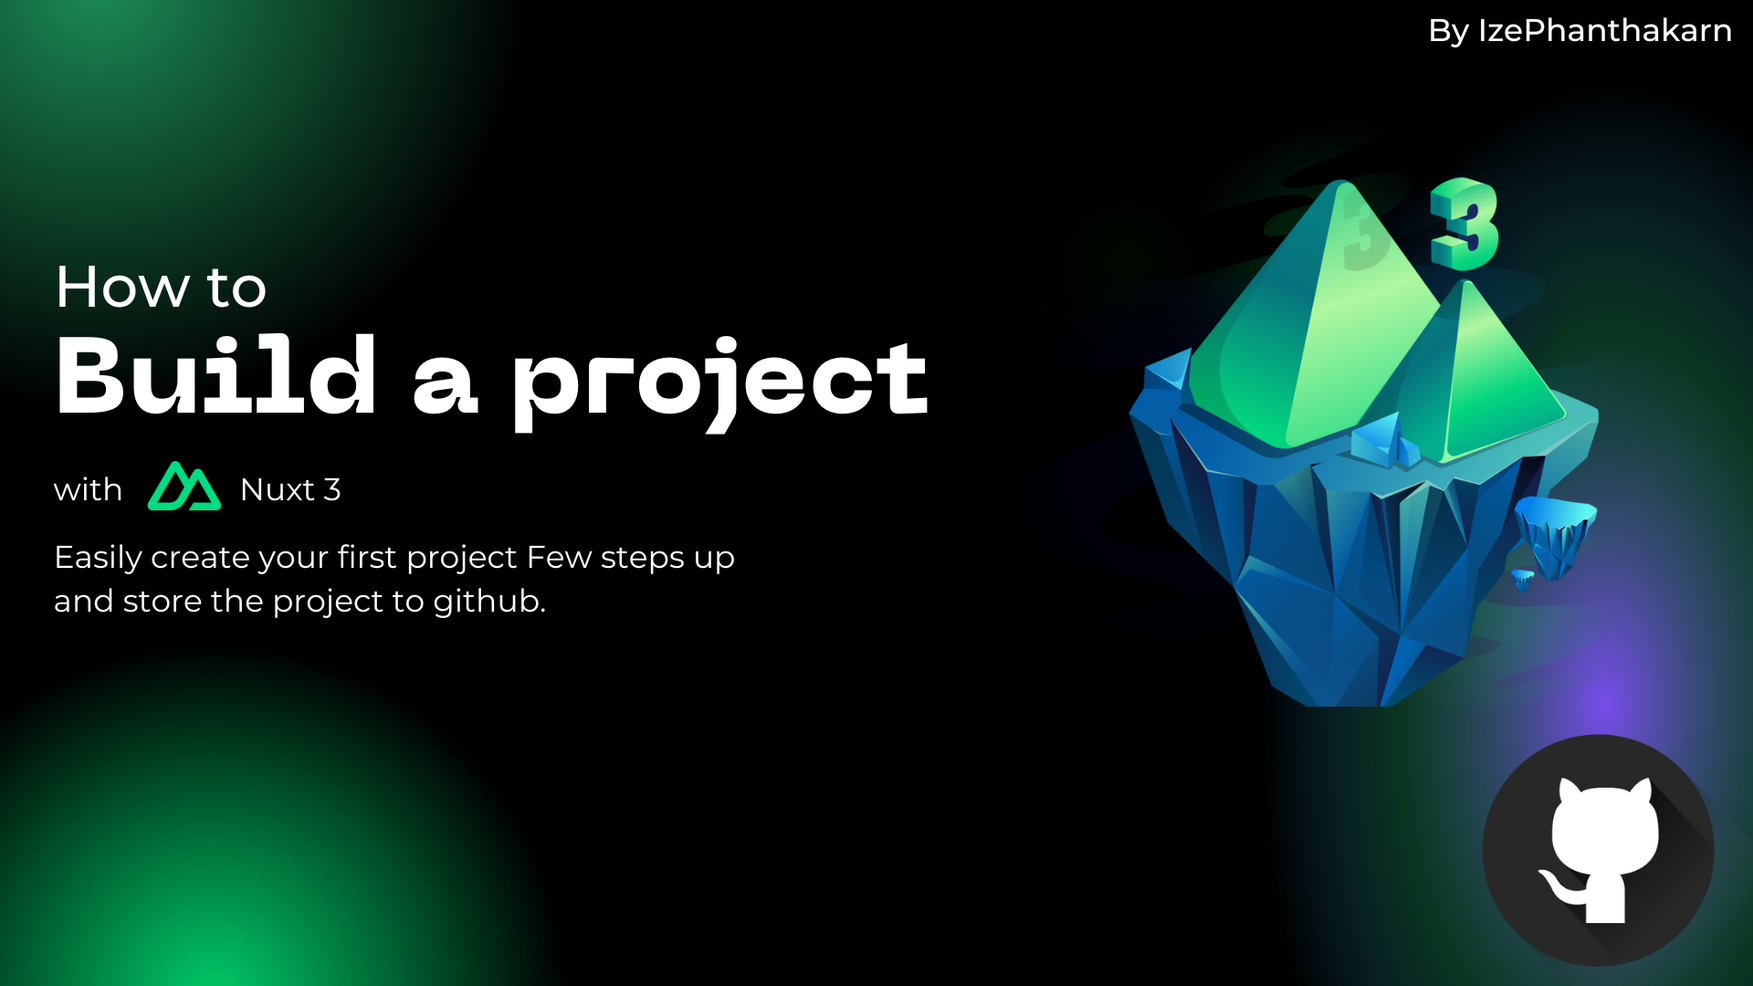
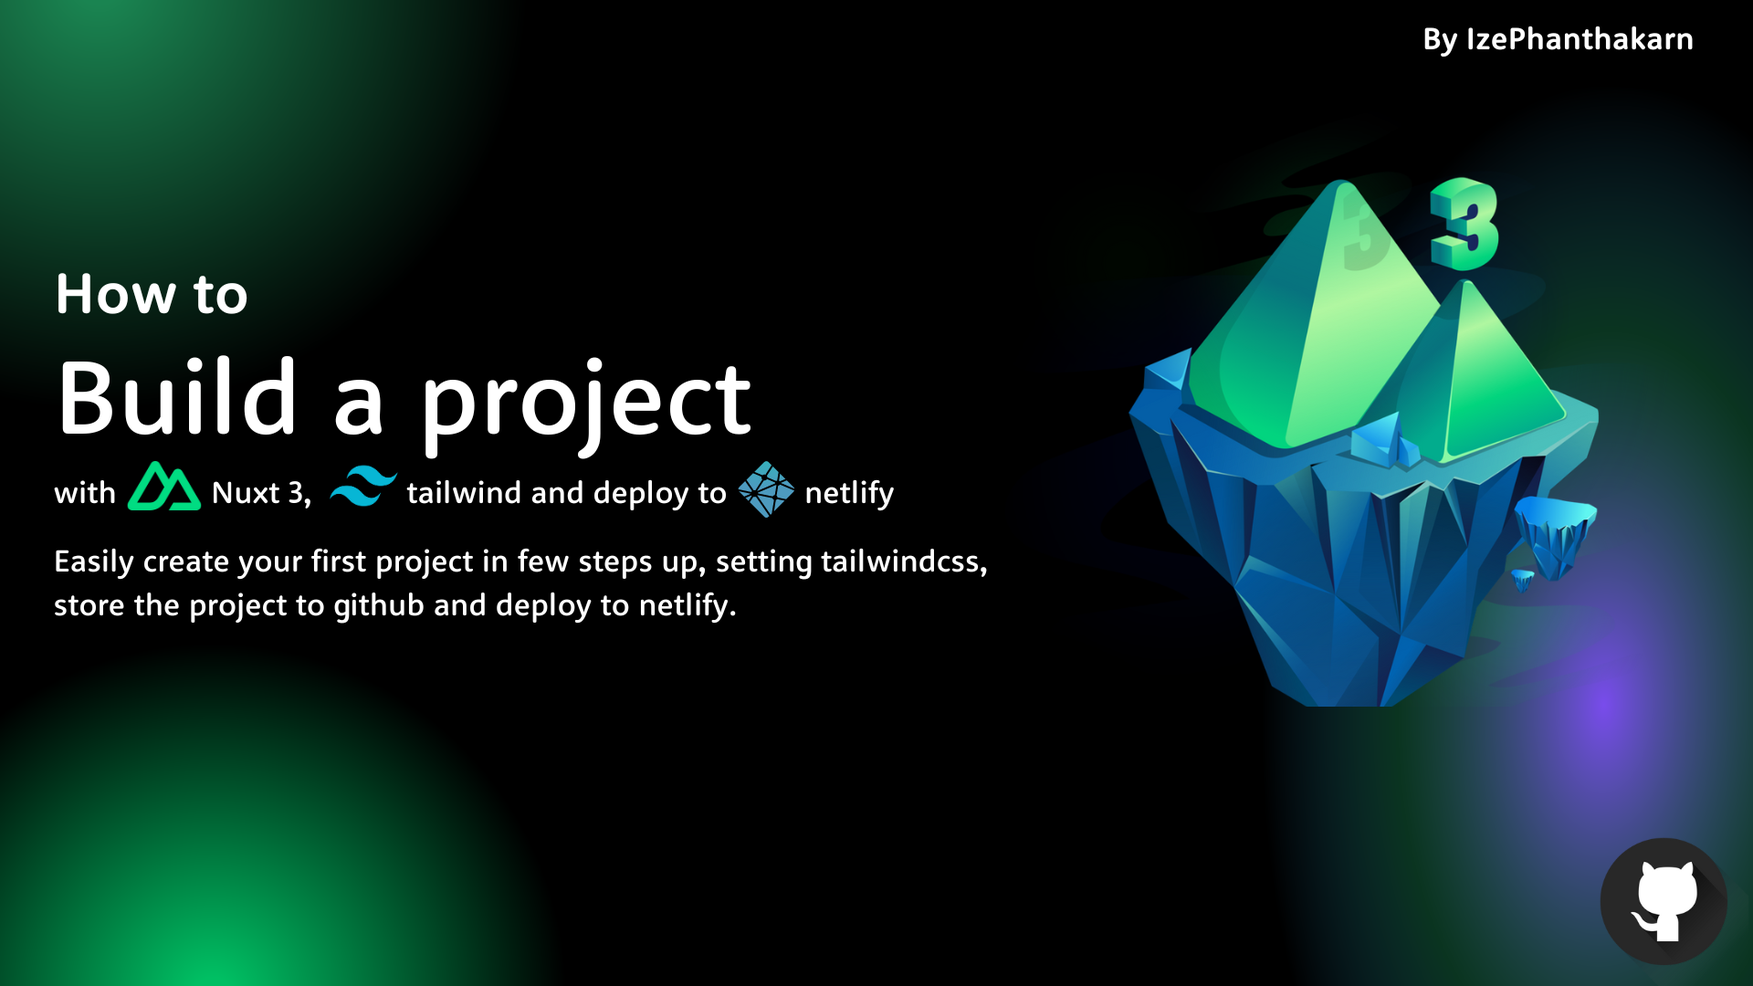
💄 Complete blogs page and first blog

diff --git a/pages/blogs/how-to-build-nuxt3-project.vue b/pages/blogs/how-to-build-nuxt3-project.vue
@@ -1,0 +1,110 @@
+<script setup lang="ts">
+const blog = {
+    title: "How to build Nuxt 3 project",
+    author: "Phanthakarn Khumphai",
+    img: "https://firebasestorage.googleapis.com/v0/b/nuxt3-portfolio-a111c.appspot.com/o/Banner-blogs.png?alt=media&token=d5ba768c-72a3-4943-bcc2-3c92d56cd391",
+    tags: [
+        { icon: "logos:nuxt-icon", name: "Nuxt.js", link: "https://nuxtjs.org/" },
+        { icon: "logos:tailwindcss-icon", name: "TailwindCSS", link: "https://tailwindcss.com/" },
+        { icon: "line-md:github-loop", name: "Github", link: "https://github.com/" },
+        { icon: "vscode-icons:file-type-netlify", name: "Netlify", link: "https://www.netlify.com/" },
+    ],
+    description: "This article will focus on explaining how to build a project with Nuxt 3 from scratch, using the CSS framework tailwindcss to make development easier. We will also cover how to store the project on Github and deploy it on Netlify.",
+    detail: "Lorem ipsum dolor sit amet consectetur, adipisicing elit. Saepe soluta ad est ea, asperiores suscipit veniam odit. Tenetur corporis, voluptatem nihil at eaque corrupti officiis unde aut, ducimus, velit dolorem.",
+    lastUpdate: "April 7, 2023",
+    link: "/blogs/how-to-build-nuxt3-project",
+    slug: "how-to-build-nuxt3-project"
+}
+
+function copyText(text: string) {
+    navigator.clipboard.writeText(text);
+}
+</script>
+
+<template>
+    <div class="container text-white mx-auto pt-28 px-5 pb-10">
+        <div class="flex flex-col lg:grid w-full lg:w-3/4 mx-auto lg:grid-cols-2 lg:gap-8">
+
+            <img data-aos="fade-right" :src=blog.img class="w-full mx-auto rounded-2xl mb-4 lg:mb-0" alt="">
+            <div data-aos="fade-left" class="mb-4 lg:mb-0">
+                <h1 class="text-2xl sm:text-3xl font-semibold">{{ blog.title }}</h1>
+                <div class="flex mb-1 items-center space-x-1">
+                    <h2 class="">{{ blog.lastUpdate }} by</h2>
+                    <NuxtLink to="/about" class="text-primary hover:cursor-pointer hover:underline underline-offset-2">{{
+                        blog.author }}</NuxtLink>
+            </div>
+            <div v-for="(tag, index) in blog.tags" :key="index" class="inline-block m-0.5">
+                <BaseTag class="inline-block" portfolio :icon=tag.icon :link="tag.link">{{ tag.name }}</BaseTag>
+            </div>
+            <hr class="my-4">
+            <div>{{ blog.description }}</div>
+        </div>
+    
+        <div class="col-span-2">
+            <div class=" mx-auto">
+                <p data-aos="fade-up">
+                Nuxt is a framework built on top of Vue.js for developing web applications that support Server Side
+                Rendering
+                (SSR) and Progressive Web Application (PWA) capabilities. It is suitable for web applications that require
+                SEO, such as blogs and e-commerce stores. Choosing Nuxt can also reduce development time due to the
+                structure and formats provided by the Nuxt framework, such as automatic file-based routing, automatic
+                importing of files and modules (Nuxt Auto Import), and the ability to design and create APIs within the
+                framework. This makes it easier and more efficient for developers to work.
+                </p>
+                <br><br>
+                <h1 data-aos="fade-right" class="text-xl lg:text-2xl font-medium">🎉 To begin, use the command to create a project via the command prompt.</h1>
+                <pre data-aos="fade-left" class="bg-color-base2 rounded-2xl pl-4 pr-2 py-2 mt-2 mb-4 overflow-auto flex items-center justify-between select-text"><code>npx nuxi init &lt;project-name></code><Icon @click="copyText('npx nuxi init <project-name>')" class="text-gray-300 duration-200 cursor-pointer rounded-lg py-1 hover:bg-color-base active:scale-95" name="uil:copy" size="34"/></pre>
+                <p data-aos="fade-right">Nuxt project is created with v3 template. Next steps: go to path of project and install dependencies:</p>
+                <pre data-aos="fade-left" class="bg-color-base2 rounded-2xl pl-4 pr-2 py-2 mt-2 mb-4 overflow-auto flex items-start justify-between select-text"><div class="flex flex-col"><code>cd &lt;project-name></code><code>npm install</code></div><Icon @click="copyText('cd <project-name> && npm install')" class="text-gray-300 duration-200 cursor-pointer rounded-lg py-1 hover:bg-color-base active:scale-95" name="uil:copy" size="34"/></pre>
+                <p data-aos="fade-right">Finally, use this command to run the project. And open your browser at <NuxtLink to="http://localhost:3000/" target="_blank" class="text-primary hover:underline underline-offset-2">localhost:3000</NuxtLink>:</p> 
+                <pre data-aos="fade-left" class="bg-color-base2 rounded-2xl pl-4 pr-2 py-2 mt-2 mb-4 overflow-auto flex items-center justify-between select-text"><code>npm run dev</code><Icon @click="copyText('npm run dev')" class="text-gray-300 duration-200 cursor-pointer rounded-lg py-1 hover:bg-color-base active:scale-95" name="uil:copy" size="34"/></pre>
+                <p data-aos="fade-right">You will see</p>
+                <img data-aos="fade-left" class="w-full sm:w-3/4 mx-auto my-4 rounded-lg sm:rounded-xl" src="https://firebasestorage.googleapis.com/v0/b/nuxt3-portfolio-a111c.appspot.com/o/welcom-to-nuxt.png?alt=media&token=924edd5a-5623-4c9f-b505-2ffbcccc52f8" alt="">
+                <p data-aos="fade-right">change file app.vue to:</p>
+                <pre data-aos="fade-left" class="bg-color-base2 rounded-2xl pl-4 pr-2 py-2 mt-2 mb-4 overflow-auto flex items-start justify-between select-text"><div class="flex flex-col"><code>&lt;template> <br> &nbsp;&lt;NuxtLayout> <br>&nbsp;&nbsp;&nbsp;&nbsp;&lt;NuxtPage /> <br>&nbsp;&nbsp;&lt;/NuxtLayout> <br>&lt;/template></code></div><Icon @click="copyText('<template>\n <NuxtLayout>\n      <NuxtPage />\n</NuxtLayout>\n</template>')" class="text-gray-300 duration-200 cursor-pointer rounded-lg py-1 hover:bg-color-base active:scale-95" name="uil:copy" size="34"/></pre>
+                <p data-aos="fade-right">Create file <span class="text-primary">pages/index.vue</span> and add this code:</p>
+                <pre data-aos="fade-left" class="bg-color-base2 rounded-2xl pl-4 pr-2 py-2 mt-2 mb-4 overflow-auto flex items-start justify-between select-text"><div class="flex flex-col"><code>&lt;template> <br> &nbsp;&lt;div> <br> &nbsp;&nbsp;&nbsp;&lt;h1>Hello World!&lt;/h1> <br>&nbsp;&nbsp;&lt;/div> <br>&lt;/template></code></div><Icon @click="copyText('<template>\n <div> \n    <h1>Hello World!</h1> \n  </div>\n</template>')" class="text-gray-300 duration-200 cursor-pointer rounded-lg py-1 hover:bg-color-base active:scale-95" name="uil:copy" size="34"/></pre>
+                <p data-aos="fade-right">let's check <NuxtLink to="http://localhost:3000/" target="_blank" class="text-primary hover:underline underline-offset-2">localhost:3000</NuxtLink> page will change to</p>
+                <img data-aos="fade-left" class="w-full sm:w-3/4 mx-auto my-4 rounded-lg sm:rounded-xl" src="https://firebasestorage.googleapis.com/v0/b/nuxt3-portfolio-a111c.appspot.com/o/helloworld-nuxt.png?alt=media&token=a8551909-91d5-4797-becc-22e783d45309" alt="">
+                <div data-aos="fade-right" class="w-full bg-green-900 border-[1px] border-green-600 mb-4 text-green-200 px-4 py-2.5 rounded-lg">That's it! You can development your project with Nuxt 3 ✨</div>
+                <hr data-aos="fade-up" class="my-4">
+
+                <h1 data-aos="fade-left" class="text-2xl font-medium">Next, we'll install TailwindCSS.</h1>
+                <p data-aos="fade-right">First, install <NuxtLink to="https://tailwindcss.nuxtjs.org/" target="_blank" class="text-primary hover:underline underline-offset-2">@nuxtjs/tailwindcss</NuxtLink> dependency to your project:</p>
+                <pre data-aos="fade-left" class="bg-color-base2 rounded-2xl pl-4 pr-2 py-2 mt-2 mb-4 overflow-auto flex items-center justify-between select-text"><code>npm install -D @nuxtjs/tailwindcss</code><Icon @click="copyText('npm install -D @nuxtjs/tailwindcss')" class="text-gray-300 duration-200 cursor-pointer rounded-lg py-1 hover:bg-color-base active:scale-95" name="uil:copy" size="34"/></pre>
+                <p data-aos="fade-right">Add it to your modules section in your <span class="text-primary">nuxt.config</span>:</p>
+                <pre data-aos="fade-left" class="bg-color-base2 rounded-2xl pl-4 pr-2 py-2 mt-2 mb-4 overflow-auto flex items-start justify-between select-text"><div class="flex flex-col"><code>export default defineNuxtConfig({ <br>&nbsp; modules: ['@nuxtjs/tailwindcss'] <br>})</code></div><Icon @click="copyText('export default defineNuxtConfig({ \n    modules: [\'@nuxtjs/tailwindcss\'] \n})')" class="text-gray-300 duration-200 cursor-pointer rounded-lg py-1 hover:bg-color-base active:scale-95" name="uil:copy" size="34"/></pre>
+                <p data-aos="fade-right">test by add class in h1 tag on pages/index.vue:</p>
+                <pre data-aos="fade-left" class="bg-color-base2 rounded-2xl pl-4 pr-2 py-2 mt-2 mb-4 overflow-auto flex items-start justify-between select-text"><div class="flex flex-col"><code>&lt;template> <br> &nbsp;&lt;div> <br> &nbsp;&nbsp;&nbsp;&lt;h1 class="h-96 bg-green-900 text-green-200">Hello World!&lt;/h1> <br>&nbsp;&nbsp;&lt;/div> <br>&lt;/template></code></div><Icon @click="copyText('<template>\n <div> \n    <h1 class=\'h-96 bg-green-900 text-green-200\'>Hello World!</h1> \n  </div>\n</template>')" class="text-gray-300 duration-200 cursor-pointer rounded-lg py-1 hover:bg-color-base active:scale-95" name="uil:copy" size="34"/></pre>
+                <img data-aos="fade-right" class="w-full sm:w-3/4 mx-auto my-4 rounded-lg sm:rounded-xl" src="https://firebasestorage.googleapis.com/v0/b/nuxt3-portfolio-a111c.appspot.com/o/test-tailwind-nuxt.png?alt=media&token=197c82fb-cf9f-4d8b-98b9-c459d87d3fff" alt="">
+                <div data-aos="fade-left" class="w-full bg-green-900 border-[1px] border-green-600 mb-4 text-green-200 px-4 py-2.5 rounded-lg">That's it! You can now use Tailwind classes in your Nuxt app ✨</div>
+                <hr data-aos="fade-up" class="my-4">
+                
+                <p data-aos="fade-left">Now we are going to <NuxtLink to="https://github.com/" target="_blank" class="text-primary hover:underline underline-offset-2">github.com</NuxtLink> to store project files, create a new repository and go to your project path to push your file by command</p>
+                <pre data-aos="fade-right" class="bg-color-base2 rounded-2xl pl-4 pr-2 py-2 mt-2 mb-4 overflow-auto flex items-start justify-between select-text"><div class="flex flex-col"><code>echo "# &lt;your repository name>" >> README.md</code><code>git init</code><code>git add .</code><code>git commit -m "🎉 Begin a project"</code><code>git branch -M main</code><code>git remote add origin &lt;your repository path>.git</code><code>git push -u origin main</code></div><Icon @click="copyText('echo \'# <your repository name>\' >> README.md \n git init \n git add . \n git commit -m \'🎉 Begin a project\' \n git branch -M main \n git remote add origin <your repository path>.git \n git push -u origin main')" class="text-gray-300 duration-200 cursor-pointer rounded-lg py-1 hover:bg-color-base active:scale-95" name="uil:copy" size="34"/></pre>
+                <p data-aos="fade-left">Refresh your github repository and you will see file that in project</p>
+                <img data-aos="fade-right" class="w-full sm:w-3/4 mx-auto my-4 rounded-lg sm:rounded-xl" src="https://firebasestorage.googleapis.com/v0/b/nuxt3-portfolio-a111c.appspot.com/o/first-app-github.png?alt=media&token=c67a416f-6775-4378-8e6c-77bd820ae303" alt="">
+                <div data-aos="fade-left" class="w-full bg-green-900 border-[1px] border-green-600 mb-4 text-green-200 px-4 py-2.5 rounded-lg">That's it! You can development project with your friend, let's fun! ✨</div>
+
+                <hr data-aos="fade-up" class="my-4">
+                <h1 data-aos="fade-right" class="text-2xl font-medium">Lastly, We are going to <NuxtLink to="netlify.com" target="_blank" class="text-primary hover:underline underline-offset-2">netlify.com</NuxtLink> to deploy a project</h1>
+                <p data-aos="fade-left">Login with your github account > click "Import an existing project" </p>
+                <br>
+                <p data-aos="fade-right">Select Github (netlify will automatically fetch your repository)</p>
+                <img data-aos="fade-left" class="w-full sm:w-3/4 mx-auto my-4 rounded-lg sm:rounded-xl" src="https://firebasestorage.googleapis.com/v0/b/nuxt3-portfolio-a111c.appspot.com/o/netlify-start.png?alt=media&token=c4995dd4-f45c-4819-909b-ae79927e15bd" alt="">
+                <p data-aos="fade-right">Find and select your repository that you will deploy.</p>
+                <img data-aos="fade-left" class="w-full sm:w-3/4 mx-auto my-4 rounded-lg sm:rounded-xl" src="https://firebasestorage.googleapis.com/v0/b/nuxt3-portfolio-a111c.appspot.com/o/netlify-startrepo.png?alt=media&token=361fccb7-6bf3-4a49-8066-c3ef058a80d6" alt="">
+                <p data-aos="fade-right">Click "Deploy site" button (you can set more if you want)</p>
+                <img data-aos="fade-left" class="w-full sm:w-3/4 mx-auto my-4 rounded-lg sm:rounded-xl" src="https://firebasestorage.googleapis.com/v0/b/nuxt3-portfolio-a111c.appspot.com/o/netlify-startrepo-selected.png?alt=media&token=c1da77b2-8953-4d15-8a9b-d80f36f0f531" alt="">
+                <p data-aos="fade-right">Netlify will deploying, wait a minute</p>
+                <img data-aos="fade-left" class="w-full sm:w-3/4 mx-auto my-4 rounded-lg sm:rounded-xl" src="https://firebasestorage.googleapis.com/v0/b/nuxt3-portfolio-a111c.appspot.com/o/netlify-site-wait.png?alt=media&token=658aad27-6bb0-42a9-8847-5ba1094ab01c" alt="">
+                <p data-aos="fade-right">When netlify finished deploy, you can see your link under project id</p>
+                <img data-aos="fade-left" class="w-full sm:w-3/4 mx-auto my-4 rounded-lg sm:rounded-xl" src="https://firebasestorage.googleapis.com/v0/b/nuxt3-portfolio-a111c.appspot.com/o/netlify-site-finish.png?alt=media&token=9d7646b1-3187-4d27-baa1-0becf4016671" alt="">
+                <p data-aos="fade-right">This is webpage made by you</p>
+                <img data-aos="fade-left" class="w-full sm:w-3/4 mx-auto my-4 rounded-lg sm:rounded-xl" src="https://firebasestorage.googleapis.com/v0/b/nuxt3-portfolio-a111c.appspot.com/o/netlify-finish-deploy.png?alt=media&token=2852d85f-c144-4067-89b6-e6b016fea8a8" alt="">
+                <div data-aos="fade-right" class="w-full bg-green-900 border-[1px] border-green-600 mb-4 text-green-200 px-4 py-2.5 rounded-lg">That's it! You can copy link and share to your friend ✨</div>
+            </div>
+        </div>
+    </div>
+</div>
+</template>

diff --git a/pages/blogs/index.vue b/pages/blogs/index.vue
@@ -1,0 +1,72 @@
+<script setup>
+const blogs = [
+    {
+        title: "How to build Nuxt 3 project",
+        author: "Phanthakarn Khumphai",
+        img: "https://firebasestorage.googleapis.com/v0/b/nuxt3-portfolio-a111c.appspot.com/o/Banner-blogs.png?alt=media&token=d5ba768c-72a3-4943-bcc2-3c92d56cd391",
+        tags: [
+            { icon: "logos:nuxt-icon", name: "Nuxt.js", link: "https://nuxtjs.org/" },
+            { icon: "logos:tailwindcss-icon", name: "TailwindCSS", link: "https://tailwindcss.com/" },
+            { icon: "line-md:github-loop", name: "Github", link: "https://github.com/" },
+            { icon: "vscode-icons:file-type-netlify", name: "Netlify", link: "https://www.netlify.com/" },
+        ],
+        description: "This article will focus on explaining how to build a project with Nuxt 3 from scratch, using the CSS framework tailwindcss to make development easier. We will also cover how to store the project on Github and deploy it on Netlify.",
+        detail: "Lorem ipsum dolor sit amet consectetur, adipisicing elit. Saepe soluta ad est ea, asperiores suscipit veniam odit. Tenetur corporis, voluptatem nihil at eaque corrupti officiis unde aut, ducimus, velit dolorem.",
+        lastUpdate: "April 7, 2023",
+        link: "/blogs/how-to-build-nuxt3-project",
+        slug: "how-to-build-nuxt3-project"
+    }
+]
+
+function countCard() {
+    const screenWidth = screen.width;
+    if (screenWidth <= 1024) {
+        return 2
+    } else if (screenWidth <= 1280) {
+        return 3
+    }
+    return 4
+}
+
+const countNumber = countCard();
+</script>
+
+<template>
+    <div class="w-full height-screen min-height text-white pt-24">
+        <div class="container mx-auto px-5 flex flex-col justify-center items-center">
+            <!-- Title -->
+            <div data-aos="fade">
+                <h1 class="head after:content-['what_i_write'] after:bg-color-base before:bg-primary mx-auto">
+                    My Blogs</h1>
+            </div>
+
+            <div data-aos="fade-up"
+                class="w-full h-full mt-4 sm:mt-6 overflow-hidden lg:mt-8 p-1 grid grid-cols-1 sm:grid-cols-2 lg:grid-cols-3 xl:grid-cols-4 gap-8">
+                <div v-for="slide in blogs.slice(0, countNumber)" :key="slide">
+                    <BaseBlogCard :title=slide.title :img=slide.img :tags=slide.tags :description=slide.description
+                        :lastUpdate=slide.lastUpdate :link=slide.link />
+                </div>
+            </div>
+        </div>
+    </div>
+</template>
+
+<style scoped>
+.height-screen {
+    height: calc(100vh - 64px);
+}
+
+@media (max-width: 640) {
+    .height-screen {
+        height: auto;
+    }
+}
+
+.head::before {
+    bottom: 10.5px;
+}
+
+.head::after {
+    bottom: -2px;
+}
+</style>

diff --git a/components/base/base-blog-card.vue b/components/base/base-blog-card.vue
@@ -12,7 +12,7 @@ const props = defineProps({
       type: Object,
       default: []
    },
-   detail: {
+   description: {
       type: String,
       default: ''
    },
@@ -29,29 +29,35 @@ const props = defineProps({
 
 <template>
    <div
-      class="bg-[#222434] h-full flex flex-col p-2.5 pb-1 rounded-xl ring-2 ring-[#222434] hover:ring-2 hover:ring-white">
-      <div class="w-full">
-         <img :src=img alt="" class="rounded-2xl">
-      </div>
+      class="bg-[#222434] h-full flex flex-col justify-between p-2.5 pb-1 rounded-xl ring-2 ring-[#222434] hover:ring-2 hover:ring-white">
+      <div>
 
-      <div class="w-full px-1 flex flex-col items-start">
-         <h1 class="w-full my-2 text-left text-2xl font-medium line-1clamp">{{ title }}</h1>
-         <hr class="mb-2 w-full">
+         <div class="w-full">
+            <img :src=img alt="" class="rounded-2xl">
+         </div>
 
-         <div class="w-full mb-2 text-left">
-            <div v-for="(tag,index) in tags" :key="index" class="inline-block m-0.5">
-               <BaseTag class="inline-block" portfolio :icon=tag.icon>{{ tag.name }}</BaseTag>
+         <div class="w-full px-1 flex flex-col items-start">
+            <h1 class="w-full my-2 text-left text-2xl font-medium line-1clamp">{{ title }}</h1>
+            <hr class="mb-2 w-full">
+
+            <div class="w-full mb-2 text-left">
+               <div v-for="(tag, index) in tags" :key="index" class="inline-block m-0.5">
+                  <BaseTag class="inline-block" portfolio :icon=tag.icon :link="tag.link">{{ tag.name }}</BaseTag>
+               </div>
+            </div>
+         </div>
+         </div>
+         <div>
+
+            <p class="text-left line-4clamp">{{ description }}</p>
+
+            <hr class="mt-2 mb-1 w-full">
+
+            <div class="w-full flex items-center justify-between">
+               <p class="text-lg text-gray-500 font-medium"> {{ lastUpdate }}</p>
+               <BaseButton :to=link tertiary class="w-fit -mr-2 ml-auto py-0">Read more</BaseButton>
             </div>
          </div>
 
-         <p class="text-left line-4clamp">{{ detail }}</p>
-
-         <hr class="mt-2 mb-1 w-full">
-
-         <div class="w-full flex items-center justify-between">
-            <p class="text-lg text-gray-500 font-medium"> {{ lastUpdate }}</p>
-            <BaseButton :to=link tertiary class="w-fit -mr-2 ml-auto py-0">Read more</BaseButton>
-         </div>
-      </div>
    </div>
 </template>

diff --git a/composables/blogsData.js b/composables/blogsData.js
@@ -1,0 +1,21 @@
+export default {
+    title: "My Blogs",
+    blogList: [
+        {
+            title: "How to build Nuxt 3 project",
+            author: "Phanthakarn Khumphai",
+            img: "/img/blogs/build-nuxt3-project.png",
+            tags: [
+                { icon: "logos:nuxt-icon", name: "Nuxt.js", link: "https://nuxtjs.org/" },
+                { icon: "logos:tailwindcss-icon", name: "TailwindCSS", link: "https://tailwindcss.com/" },
+                { icon: "line-md:github-loop", name: "Github", link: "https://github.com/" },
+                { icon: "vscode-icons:file-type-netlify", name: "Netlify", link: "https://www.netlify.com/" },
+            ],
+            description:"This article will focus on explaining how to build a project with Nuxt 3 from scratch, using the CSS framework tailwindcss to make development easier. We will also cover how to store the project on Github and deploy it on Netlify.",
+            detail: "Lorem ipsum dolor sit amet consectetur, adipisicing elit. Saepe soluta ad est ea, asperiores suscipit veniam odit. Tenetur corporis, voluptatem nihil at eaque corrupti officiis unde aut, ducimus, velit dolorem.",
+            lastUpdate: "April 7, 2023",
+            link: "/blogs/how-to-build-nuxt3-project",
+            slug: "how-to-build-nuxt3-project"
+        }
+    ]
+}

diff --git a/components/home/skill.vue b/components/home/skill.vue
@@ -19,7 +19,7 @@ const frontendTags: homeSkillTag[] = [
    { icon: "vscode-icons:file-type-node", name: "Node.js", link: "https://nodejs.org/en" },
    { icon: "vscode-icons:file-type-vue", name: "Vue.js", link: "https://vuejs.org/" },
    { icon: "logos:nuxt-icon", name: "Nuxt.js", link: "https://nuxtjs.org/" },
-   { icon: "logos:tailwindcss-icon", name: "Tailwind CSS", link: "https://tailwindcss.com/" },
+   { icon: "logos:tailwindcss-icon", name: "TailwindCSS", link: "https://tailwindcss.com/" },
    { icon: "skill-icons:bootstrap", name: "Bootstrap", link: "https://getbootstrap.com/" }
 ]
 const backendTags: homeSkillTag[] = [

diff --git a/pages/pricing/[pricingSlug].vue b/pages/pricing/[pricingSlug].vue
@@ -54,7 +54,7 @@ const totalTH: any = computed(() => {
 </script>
 
 <template>
-    <div class="container text-white mx-auto pt-24 px-5 pb-10 height-scree">
+    <div class="container text-white mx-auto pt-24 px-5 pb-10">
 
         <!-- Title -->
         <div data-aos="fade-right" class="w-full flex items-center justify-between">

diff --git a/layouts/default.vue b/layouts/default.vue
@@ -27,7 +27,7 @@ window.addEventListener("scroll", myScrollFunc);
 </script>
 
 <template>
-   <div class="duration-300 bg-color-base overflow-hidden">
+   <div class="duration-300 bg-color-base overflow-hidden select-none">
       <Navbar/>
       <slot class="z-10" />
       <Foot />

diff --git a/assets/css/main.css b/assets/css/main.css
@@ -6,7 +6,11 @@ html {
    margin: 0;
    padding: 0;
    box-sizing: border-box;
-   user-select: none;
+}
+
+::selection {
+   background: #fff;
+   color: #000;
 }
 
 ::-webkit-scrollbar {

diff --git a/composables/useBlogs.ts b/composables/useBlogs.ts
@@ -1,0 +1,5 @@
+import blogsData from "./blogsData";
+
+export const useBlogs = () => {
+    return blogsData;
+}
